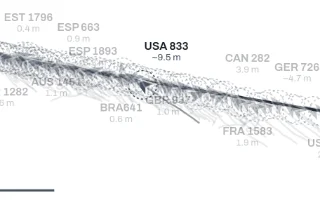
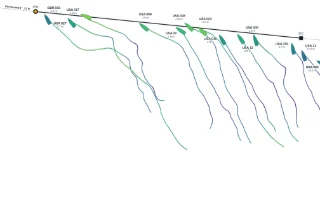
Recall landing: The start card shows the IC37 start chart in full screen, colored by speed
The start shot is now 2026 IC37 North American Championship, race 4: the
start chart in full screen at Fit, Color: Speed, Names: Auto, without the
toolbar or Close. The thumbnail keeps the whole line and its labels at
16:10; the full image trims the viewport to just under the tracks.
Caption and alt text updated to match.

Requested by Vann.
Written by Claude Code (claude-opus-5-5)

diff --git a/index.html b/index.html
@@ -90,7 +90,7 @@
             <p>Color the tracks by leg, by speed rank, or by each boat's speed over ground. You can also show one leg at a time.</p>
           </li>
           <li class="land-card">
-            <button type="button" class="land-thumb" aria-haspopup="dialog" aria-controls="land-lightbox" data-full="/landing/start.webp" data-caption="Cascais J/70 World Championship, race 3."><img src="/landing/start-thumb.webp" srcset="/landing/start-thumb.webp 1x, /landing/start-thumb@2x.webp 2x" width="320" height="200" loading="lazy" decoding="async" alt="The start chart at the gun for the J/70 fleet along a 1 km line with the pin end favored: boats labeled by sail number and distance to the line, with USA 833 highlighted." /><span class="land-thumb-zoom" aria-hidden="true"><svg viewBox="0 0 16 16" focusable="false"><path d="M2 6V2h4M10 2h4v4M14 10v4h-4M6 14H2v-4" fill="none" stroke="currentColor" stroke-width="1.6" stroke-linecap="round" stroke-linejoin="round" /></svg></span></button>
+            <button type="button" class="land-thumb" aria-haspopup="dialog" aria-controls="land-lightbox" data-full="/landing/start.webp" data-caption="2026 IC37 North American Championship, race 4."><img src="/landing/start-thumb.webp" srcset="/landing/start-thumb.webp 1x, /landing/start-thumb@2x.webp 2x" width="320" height="200" loading="lazy" decoding="async" alt="The start chart in full screen for an IC37 race: a 274 m line with the pin end favored, boats at the gun labeled by sail number and distance to the line, and tracks over the last 60 seconds colored by speed." /><span class="land-thumb-zoom" aria-hidden="true"><svg viewBox="0 0 16 16" focusable="false"><path d="M2 6V2h4M10 2h4v4M14 10v4h-4M6 14H2v-4" fill="none" stroke="currentColor" stroke-width="1.6" stroke-linecap="round" stroke-linejoin="round" /></svg></span></button>
             <h3>The start</h3>
             <p>The start chart shows where every boat was at the gun. Below it are each boat's speed through the start, a table of how each boat started, and the start findings. If a boat was over early, you can replay its start just below, or on the course map.</p>
           </li>

diff --git a/README.md b/README.md
@@ -45,10 +45,13 @@ PLAYWRIGHT_CORE=/path/to/playwright-core/index.js node scripts/landing-thumbs.mj
 Use a port Node's `fetch` accepts: undici refuses its "bad ports" (4190 is one), and the script checks the server
 with `fetch` first.
 
-The races are the J/70 Worlds in Cascais (Open, `race=4`, USA 833 for the start and regatta views; the replay is
+The races are the J/70 Worlds in Cascais (Open, `race=4`, USA 833 for Around the gun and the regatta view; the replay is
 `race=3` at the windward mark, a moment picked from `tests/fixtures/cascais_r3.json` where nearly every boat near
 USA 833 has fresh fixes) and the J/105 CBC (`race=1`, linked to Yachtscoring 50575; the debrief and report are
-`race=3` for USA 343, which covers 85% of that race on its fixture, against USA 833's thin Cascais tracks). Sail numbers only: the script removes boat names and Yachtscoring's
+`race=3` for USA 343, which covers 85% of that race on its fixture, against USA 833's thin Cascais tracks). The start
+is the 2026 IC37 North American Championship (`race=4`), its start chart in full screen (Fit, Color: Speed,
+Names: Auto) without the bar of controls above it: the thumbnail at 1280×800, the full image with the
+viewport cut down to just under the tracks. Sail numbers only: the script removes boat names and Yachtscoring's
 owner and crew fields from the responses before the page sees them, hides `.bname` / `.rp-name`, and fails a
 shot if any removed name is still in the captured element (whole words, case as written; one-word names that are
 also the app's own words, `NOT_NAMES` such as "Mark", are skipped). Look over every image before committing it anyway.
